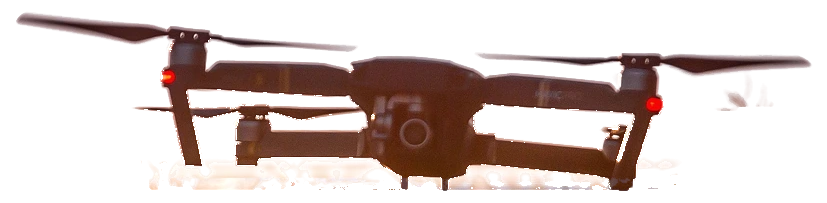
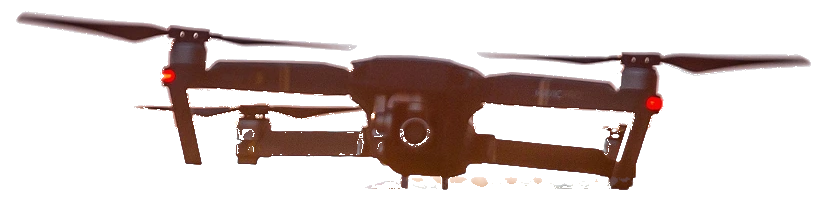
fix(contact): drone layer without halo, spinning propellers
Minh spotted a pale area travelling with the drone in the preview. It was
semi-transparent sky and grass-bokeh pixels that survived the cut-out and
were brightened by the colour correction. The cut now keeps only pixels
physically connected to the body, requires dark pixels in the band where
grass tips poke above the horizon, caps corrected colours at what the
camera saw, and drops faint-but-bright pixels. Faint pixels: 3,352 -> 774.

Propellers: four squashed spinners (two-blade bar rotating at ~12 rev/s,
multiply-blended) sit on the photo's own blur streaks at the hub positions
measured on a coordinate grid, so the props shimmer like they are running.
The hover bob moved to a body wrapper so the props ride along. Hidden
under prefers-reduced-motion.

Claude-Session: https://claude.ai/code/session_017ZA7X1mYxmMmRZ4xWpsaF7

diff --git a/src/components/DroneBanner/DroneBanner.js b/src/components/DroneBanner/DroneBanner.js
@@ -12,9 +12,20 @@ import './DroneBanner.css';
 // math the browser uses for object-fit, so it sits exactly over the filled
 // patch at rest on every screen size.
 const SKY = { w: 2400, h: 1600 };
-const DRONE = { x: 789, y: 632, w: 827, h: 203 };
+const DRONE = { x: 789, y: 633, w: 827, h: 202 };
 const SKY_SRC = '/assets/images/contact-drone-sky.webp';
 const DRONE_SRC = '/assets/images/contact-drone.webp';
+
+// Visible propeller hubs in the drone layer's own pixel space (x, y, diameter,
+// apparent thickness as a fraction of the diameter, opacity). Each gets a
+// two-blade bar spinning inside a squashed circle, which reads as the edge-on
+// blur of a running prop over the photo's own motion-blur streak.
+const PROPS = [
+  { x: 182, y: 34, d: 335, squash: 0.078, o: 0.55 },  // front left
+  { x: 636, y: 60, d: 342, squash: 0.07, o: 0.5 },    // front right
+  { x: 255, y: 106, d: 200, squash: 0.06, o: 0.4 },   // rear left, behind the arm
+  { x: 750, y: 98, d: 110, squash: 0.06, o: 0.3 },    // rear right, mostly hidden
+];
 
 const LIFT = 0.8;    // fraction of the banner height the drone climbs while the banner scrolls away
 const DRIFT = 0.06;   // fraction of the banner width it drifts to the right meanwhile
@@ -117,13 +128,30 @@ const DroneBanner = () => {
         height={SKY.h}
       />
       <div className="drone-banner-drone" ref={droneRef}>
-        <img
-          src={DRONE_SRC}
-          alt="Minh's drone hovering over a golden field at sunset"
-          decoding="async"
-          width={DRONE.w}
-          height={DRONE.h}
-        />
+        <div className="drone-banner-body">
+          <img
+            src={DRONE_SRC}
+            alt="Minh's drone hovering over a golden field at sunset"
+            decoding="async"
+            width={DRONE.w}
+            height={DRONE.h}
+          />
+          {PROPS.map((p, i) => (
+            <span
+              key={i}
+              className="drone-banner-prop"
+              aria-hidden="true"
+              style={{
+                left: `${(p.x / DRONE.w) * 100}%`,
+                top: `${(p.y / DRONE.h) * 100}%`,
+                width: `${(p.d / DRONE.w) * 100}%`,
+                opacity: p.o,
+                '--squash': p.squash,
+                animationDelay: `${-i * 0.023}s`,
+              }}
+            />
+          ))}
+        </div>
       </div>
     </div>
   );

diff --git a/src/components/DroneBanner/DroneBanner.css b/src/components/DroneBanner/DroneBanner.css
@@ -26,11 +26,39 @@
   pointer-events: none;
 }
 
+.drone-banner-body {
+  position: relative;
+  animation: drone-banner-hover 4.4s ease-in-out infinite;
+}
+
 .drone-banner-drone img {
   display: block;
   width: 100%;
   height: auto;
-  animation: drone-banner-hover 4.4s ease-in-out infinite;
+}
+
+/* A spinning two-blade bar inside a circle squashed to the edge-on angle of
+   the photo. Multiply-blended over the prop's own motion-blur streak, it reads
+   as a running propeller. 12 revolutions a second strobes at screen rate. */
+.drone-banner-prop {
+  position: absolute;
+  aspect-ratio: 1 / 1;
+  transform: translate(-50%, -50%) scaleY(var(--squash, 0.08));
+  mix-blend-mode: multiply;
+  pointer-events: none;
+}
+
+.drone-banner-prop::before {
+  content: '';
+  position: absolute;
+  left: 0;
+  right: 0;
+  top: 46%;
+  height: 8%;
+  border-radius: 999px;
+  background: linear-gradient(90deg, transparent 0 2%, #211f1c 2% 47%, transparent 47% 53%, #211f1c 53% 98%, transparent 98%);
+  animation: drone-banner-spin 0.085s linear infinite;
+  animation-delay: inherit;
 }
 
 @keyframes drone-banner-hover {
@@ -38,6 +66,11 @@
   50% { transform: translateY(-4px) rotate(-0.6deg); }
 }
 
+@keyframes drone-banner-spin {
+  to { transform: rotate(360deg); }
+}
+
 @media (prefers-reduced-motion: reduce) {
-  .drone-banner-drone img { animation: none; }
+  .drone-banner-body { animation: none; }
+  .drone-banner-prop { display: none; }
 }
